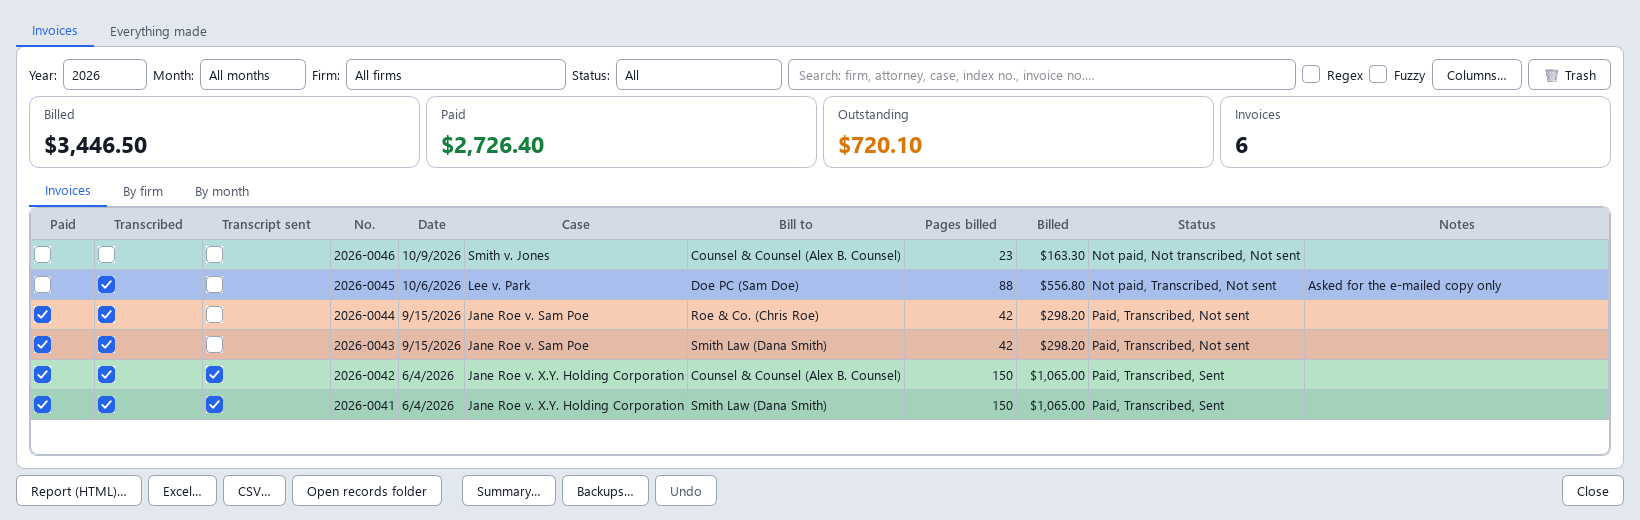
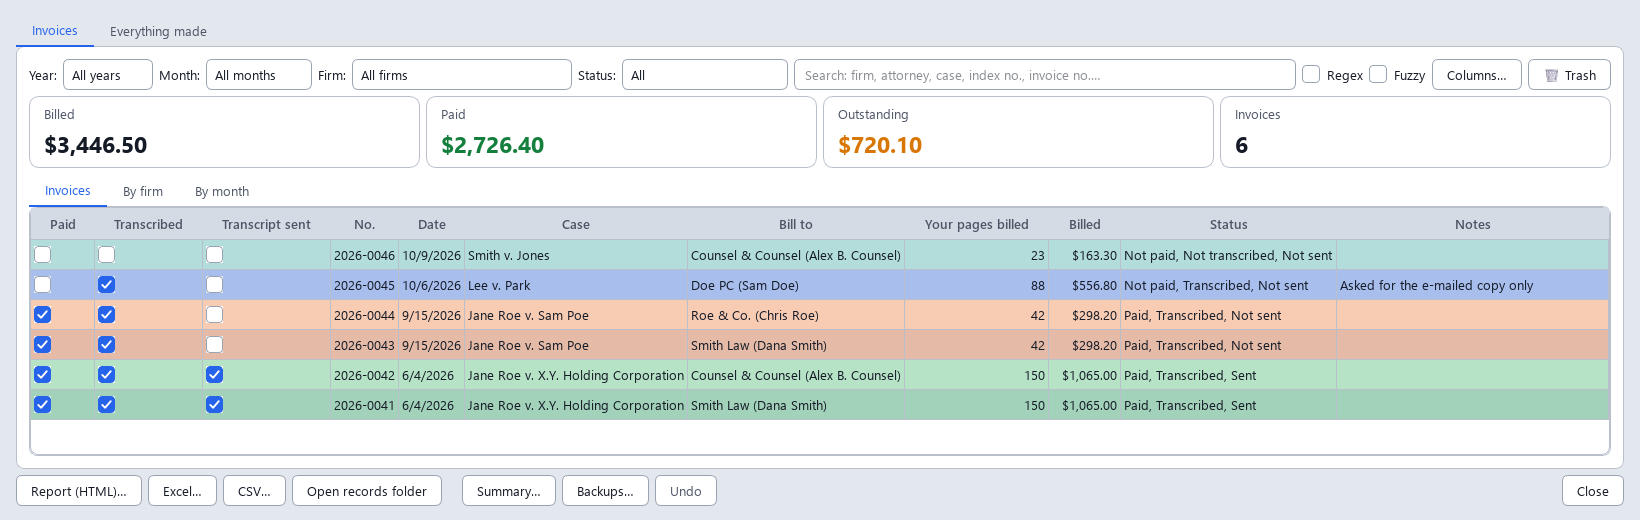
Website for 2.16: every page count says whose pages, the new count columns and filters, pictures with the new headings

diff --git a/docs/index.html b/docs/index.html
@@ -90,9 +90,9 @@
   <div class="wrap two">
     <div>
       <h2>A hundred orders? Drop the whole folder.</h2>
-      <p>Batch mode reads any number of documents and sorts them into one job per case and date. A transcript and its invoice make one form, not two. Two days of the same case make two jobs, but <b>Generate all</b> gives each firm <b>one invoice</b> and one minute agreement for all the days it ordered, and the trial one MOFR (Settings &rarr; Options switches back to forms for each day). Tick the jobs you want and press <b>Generate all</b>: the preview shows every file and the math first, and nothing is saved until you say so. The ticks decide what counts: every card on the right shows all the ticked days, whichever one is shown, so untick a day to see what difference it makes (it greys out but stays in the list). Days already made keep their tick and get a ✓, and the button says what is left: <i>Generate the 1 day left</i>. The list on the left shows each job's case, date and day of the week, oldest first (click a heading to sort by it), the transcript's own pages (no word index) and the pages you wrote (<b>Yours</b>); a job read from several documents lists them under it, and a right-click on one shows its text or moves it to a job of its own. A ⚠ next to a job means something to check; hover over it to see what. <b>New job</b> clears the list without asking, and <b>Undo</b> brings it all back for a few seconds.</p>
+      <p>Batch mode reads any number of documents and sorts them into one job per case and date. A transcript and its invoice make one form, not two. Two days of the same case make two jobs, but <b>Generate all</b> gives each firm <b>one invoice</b> and one minute agreement for all the days it ordered, and the trial one MOFR (Settings &rarr; Options switches back to forms for each day). Tick the jobs you want and press <b>Generate all</b>: the preview shows every file and the math first, and nothing is saved until you say so. The ticks decide what counts: every card on the right shows all the ticked days, whichever one is shown, so untick a day to see what difference it makes (it greys out but stays in the list). Days already made keep their tick and get a ✓, and the button says what is left: <i>Generate the 1 day left</i>. The list on the left shows each job's case, date and day of the week, oldest first (click a heading to sort by it), the <b>Total pages</b> (every reporter's, no word index) and <b>Your pages</b> (those you wrote); a job read from several documents lists them under it, and a right-click on one shows its text or moves it to a job of its own. A ⚠ next to a job means something to check; hover over it to see what. <b>New job</b> clears the list without asking, and <b>Undo</b> brings it all back for a few seconds.</p>
     </div>
-    <img class="shot" src="batch.png" alt="Batch mode: five jobs in the list on the left, oldest first, with their day of the week, each transcript's pages and the pages you wrote (30 and 18 for a trial day two reporters wrote), the Who ordered card: the trial's three firms each with a square and a stripe of its colour, two of them ticked once for the whole trial (3 days) at Expedite, with the pages each is billed, and the Outputs row: how many files each output makes for this day and for all the days, Generate this job and Generate all 5 jobs">
+    <img class="shot" src="batch.png" alt="Batch mode: five jobs in the list on the left, oldest first, with their day of the week, the Total pages and Your pages (30 and 18 for a trial day two reporters wrote), the Who ordered card: the trial's three firms each with a square and a stripe of its colour, two of them ticked once for the whole trial (3 days) at Expedite, with Your pages billed to each (52 of 74 total), and the Outputs row: how many files each output makes for this day and for all the days, Generate this job and Generate all 5 jobs">
   </div>
 </section>
 
@@ -111,7 +111,7 @@
     <img class="shot" src="invoice.png" alt="One invoice for two days of a case, listing the Regular and Expedite amounts">
     <div>
       <h2>Invoices from your transcripts</h2>
-      <p>Drop a transcript PDF and tick <b>Invoice</b>. The page count leaves out the word index printed after the transcript, and the line under it says so: "Transcript pages 378&ndash;460 &middot; excludes the 13 word-index pages after them". It is counted four ways (up to the index, by the line numbers, by the printed page numbers, and the index found from the end); if they disagree, or the index would be more than a quarter of the PDF, the field turns amber and tells you why. The page count and your rate sheet price the original, each party's copy and e-mailed copy, and for long transcripts an index for each party, plus one for the judge that the parties split. Whether there is an index is decided on the whole transcript, every reporter's pages (50 pages or more to start with): your 45 pages of an 83-page transcript get one, charged on your 45. Typed fewer pages in <b>Est. number of pages</b> than the transcript has, and that would change it (40 of 83, say)? <b>Generate</b> asks you instead of deciding, and remembers your answer for that day; <b>Peripherals…</b> shows it and lets you change it. The speeds you tick under <b>Speeds offered</b> (Regular and Expedited to start with) are the ones the invoice offers, each with its turnaround and amount, and with how to pay you. The agreement form names one of them, at one rate per page: Expedited when you offer it, otherwise the slowest. Settings &rarr; Invoice changes that rule, and the <b>Speed</b> dropdown in <b>Who ordered</b> changes it for the job, every day of a trial. No transcript, just a caption page? Type the pages in <b>Est. number of pages</b> and the invoice bills them. Want the page count, the pages of each day and the charges spelled out for this job? Tick <b>Show granular detail</b>, and choose what it shows. <b>Peripherals…</b> drops the e-mailed copy, or says yes or no to the index, for this job only, and the <b>Invoice</b> card says why there is an index or not: "83 total pages, 50 or more". The notes on the invoice are yours to write, too: place them where you like and have them show only when they apply ("delivered once every party has paid" only when several parties ordered). Four firms sharing the pages can come to part of a cent a page ($6.6125): keep every fraction and round once at the end, as before, or set <b>Rounding</b> to <i>The price a page, to the cent</i> to bill $6.61 &times; 1,000 pages = $6,610.00, the way a firm checks it with a calculator. The prices in Who ordered which pages&hellip; are rounded the same way.</p>
+      <p>Drop a transcript PDF and tick <b>Invoice</b>. The page count leaves out the word index printed after the transcript, and the line under it says so: "Transcript pages 378&ndash;460 &middot; excludes the 13 word-index pages after them". It is counted four ways (up to the index, by the line numbers, by the printed page numbers, and the index found from the end); if they disagree, or the index would be more than a quarter of the PDF, the field turns amber and tells you why. The page count and your rate sheet price the original, each party's copy and e-mailed copy, and for long transcripts an index for each party, plus one for the judge that the parties split. Whether there is an index is decided on the whole transcript, every reporter's pages (50 total pages or more to start with): your 45 pages of 83 total pages get one, charged on your 45. Typed fewer pages in <b>Est. number of pages</b> than the transcript has, and that would change it (40 of 83, say)? <b>Generate</b> asks you instead of deciding, and remembers your answer for that day; <b>Peripherals…</b> shows it and lets you change it. The speeds you tick under <b>Speeds offered</b> (Regular and Expedited to start with) are the ones the invoice offers, each with its turnaround and amount, and with how to pay you. The agreement form names one of them, at one rate per page: Expedited when you offer it, otherwise the slowest. Settings &rarr; Invoice changes that rule, and the <b>Speed</b> dropdown in <b>Who ordered</b> changes it for the job, every day of a trial. No transcript, just a caption page? Type the pages in <b>Est. number of pages</b> and the invoice bills them. Want your page count, your pages for each day and the charges spelled out for this job? Tick <b>Show granular detail</b>, and choose what it shows. <b>Peripherals…</b> drops the e-mailed copy, or says yes or no to the index, for this job only, and the <b>Invoice</b> card says why there is an index or not: "83 total pages, 50 or more". The notes on the invoice are yours to write, too: place them where you like and have them show only when they apply ("delivered once every party has paid" only when several parties ordered). Four firms sharing the pages can come to part of a cent a page ($6.6125): keep every fraction and round once at the end, as before, or set <b>Rounding</b> to <i>The price a page, to the cent</i> to bill $6.61 &times; 1,000 pages = $6,610.00, the way a firm checks it with a calculator. The prices in Who ordered which pages&hellip; are rounded the same way.</p>
       <p>Shared the trial with another reporter? The invoice bills only <b>your</b> pages, the ones with your initials at the foot: 65 of a 150-page transcript, say. <b>Whose pages…</b> lets you tick <b>My pages</b>, another reporter's pages, or <b>The whole transcript</b>, and the app asks when it can't tell. Each other reporter you tick gets invoices for their own pages, in their name, with their address and payment details (Settings &rarr; Run sheet &rarr; Invoices for, or <b>Details…</b>), numbered apart from yours (DS-2026-0001), with file names that say whose they are. Sample shown uses made-up names.</p>
     </div>
   </div>
@@ -121,9 +121,9 @@
   <div class="wrap two">
     <div>
       <h2>Who ordered which pages: the whole case on one table</h2>
-      <p>One firm ordered the whole trial, another part of day 1, a third part of that and a stretch of day 2? <b>Who ordered which pages…</b> (in Who ordered, or <i>Some days or pages…</i> in a firm's row) lists every day of the case on that invoice in one table. The <b>?</b> beside the button shows the steps. Each row is a run of pages, typed in the transcript's own page numbers (141-170), and the rows around it make room. Tick the firms that ordered each run. <b>Split run</b> cuts a run in two, and <b>Remove run</b> (or the Delete key, or a right-click) gives its pages to the run next to it; <b>Remove this day's excerpts</b> and <b>Remove all excerpts</b> go back to whole days. Each run shows its date and weekday, and each set of firms ordering together has its own colour. As you type, it shows what each run costs each firm at every speed you offer (<b>Prices for:</b> hides a speed), what each group of firms ordering together pays, and each firm's invoice. Pages ordered together split the original and the judge's index, and every firm pays for its own copy, e-mailed copy and index. A run nobody ticks is billed to nobody. The window stays open beside the app and follows what you change there. Sample shown uses made-up names.</p>
+      <p>One firm ordered the whole trial, another part of day 1, a third part of that and a stretch of day 2? <b>Who ordered which pages…</b> (in Who ordered, or <i>Some days or pages…</i> in a firm's row) lists every day of the case on that invoice in one table. The <b>?</b> beside the button shows the steps. Each row is a run of pages, typed in the transcript's own page numbers (141-170), and the rows around it make room. Tick the firms that ordered each run. <b>Split run</b> cuts a run in two, and <b>Remove run</b> (or the Delete key, or a right-click) gives its pages to the run next to it; <b>Remove this day's excerpts</b> and <b>Remove all excerpts</b> go back to whole days. Each run shows its date and weekday, and each set of firms ordering together has its own colour. As you type, it shows what each run costs each firm at every speed you offer (<b>Prices for:</b> hides a speed), what each group of firms ordering together pays, and each firm's invoice. Every count says whose pages it is: <i>43 of your pages billed (93 total pages)</i>. Columns show your pages billed and transcribed and the total pages, and <b>Only your pages</b> shows just the runs with pages of yours. A job of several days shows the page numbers printed on each transcript. Pages ordered together split the original and the judge's index, and every firm pays for its own copy, e-mailed copy and index. A run nobody ticks is billed to nobody. The window stays open beside the app and follows what you change there. Sample shown uses made-up names.</p>
     </div>
-    <img class="shot" src="excerpts.png" alt="The Who ordered which pages table: the days of a trial with their dates and weekdays, a row per run of pages coloured by the firms ordering it, a box per firm with its speed and price, what each firm pays, and the Remove buttons">
+    <img class="shot" src="excerpts.png" alt="The Who ordered which pages table: the days of a trial with their dates and weekdays, a row per run of pages with its page numbers, coloured by the firms ordering it, a box per firm with its speed and price, your pages and the total pages of each run, what each set of firms pays (40 of your pages billed, 62 total pages), and the Remove buttons">
   </div>
 </section>
 
@@ -134,7 +134,7 @@
       <p>Who ordered, what and at what speed, in one card: <b>Who ordered</b> lists every firm of the trial, whichever day you're looking at. Drop the four transcripts of a trial, tick the two firms that ordered it, and that's it: each orders the whole trial, at the speed its row names (<i>Expedite</i>, say), and Generate all bills it that way, without a question. A day you drop in later is theirs too. A firm that ordered only one day, or a few pages? Its <b>What</b> box makes it <i>Only 6/4/2026</i>, or opens Who ordered which pages… for the rest, and its tick goes half full. Its <b>Speed</b> box names the speed it's billed, and choosing another sets it for every day. A firm ordering alone shows <i>They choose: Regular or Expedite</i>: its invoice lists each speed. The line under the table says it in words ("Counsel &amp; Counsel and Smith Law: the whole trial (4 days), at Expedite."), and what Generate all will bill: a ✓ for a day invoiced already, and in amber when an invoice won't be made yet (a day nobody ordered, an excerpt to check, whose pages to bill). Each firm has a square and a stripe of its colour, the same on every day. Rather tick each day on its own? Settings &rarr; Options. Opened again from Records, a trial comes back with who ordered each day. <b>Generate all</b> asks before it bills a case with a day not decided: go back and decide, or go on without it.</p>
       <p><b>Different speeds on the same pages?</b> Firms that share pages each commit to a speed: each row names the speed it's billed, the agreement form's unless you choose another in the card's <b>Speed</b> column (or one run's own in Who ordered which pages…), and Generate bills it without a question (Settings &rarr; Invoice can have it ask instead). The one original is billed at the fastest speed ordered; each slower firm pays its share as if every firm had ordered its speed, the fastest pays the rest, and each pays its own copies at its own speed. One firm at Daily and one at Immediate, 10 pages of Sample Rates: the original is $7.60 a page at Immediate, the Daily firm pays $6.50 &divide; 2 = $3.25 of it and the Immediate firm $4.35, and together they pay exactly the bill. A firm with two speeds gets one minute agreement, both speeds ticked. For now, at most two speeds may share the same pages. Sample shown uses made-up names.</p>
     </div>
-    <img class="shot" src="orders.png" alt="The Who ordered card for a trial of three days: the Speed of the forms and the speeds offered at the top, a row per firm with a square and a stripe of its colour (Dana Smith orange, Alex B. Counsel blue, Kim Park teal), Dana Smith and Alex B. Counsel ticked once, each ordering the whole trial (3 days) at Expedite and billed 52 of 74 pages, Kim Park unticked, the details of the row selected under the table, and the line saying it in words">
+    <img class="shot" src="orders.png" alt="The Who ordered card for a trial of three days: the Speed of the forms and the speeds offered at the top, a row per firm with a square and a stripe of its colour (Dana Smith orange, Alex B. Counsel blue, Kim Park teal), Dana Smith and Alex B. Counsel ticked once, each ordering the whole trial (3 days) at Expedite, with 52 of 74 total under Your pages, Kim Park unticked, the details of the row selected under the table, and the line saying it in words">
   </div>
 </section>
 
@@ -162,7 +162,7 @@
   <div class="wrap two">
     <div>
       <h2>Shared trial? The run sheet keeps count.</h2>
-      <p>When reporters take turns, each one puts their initials on the pages they write. <b>Run sheet</b> ticks itself when two or more reporters wrote the case's transcripts (and unticks when one did; click it to decide yourself), and the app reads those initials page by page and adds a row per take to the trial's run sheet in Excel: date, reporter, pages written, start and end page, and the first and last header printed at the top of the take's pages, as printed (or nothing, if you'd rather type the witness yourself: Settings &rarr; Run sheet). The run sheet is kept in the case's <i>Trial Runs</i> folder, beside its forms and invoices. The app finds it there, or wherever your records say it is, by index number or case name (one trial can have several index numbers) and asks before adding to it. All the days of a trial go on it in one go: if it's open in Excel, you're told to close it before anything is made, so it never ends up missing a day. Filter by reporter to see their pages. To look back on a trial, the <b>By Reporter</b> sheet has each reporter's takes, pages, share of the pages and the days they worked; <b>Witnesses</b> lists every running head the transcripts printed, as printed, with its days and reporters; and <b>Who Ordered</b> lists, from your records, each invoice of the case (paid or not) and each firm with an agreement but no invoice yet. In the app, the <b>Who transcribed what</b> card lists every take of the days ticked, with each reporter's pages; <b>Save a copy</b> makes an Excel or CSV file of it. A page's initials misread, so a take comes out wrong? Double-click it, type the page it really ends on, and say yes: your pages, the invoice and the run sheet follow. Sample shown uses made-up names.</p>
+      <p>When reporters take turns, each one puts their initials on the pages they write. <b>Run sheet</b> ticks itself when two or more reporters wrote the case's transcripts (and unticks when one did; click it to decide yourself), and the app reads those initials page by page and adds a row per take to the trial's run sheet in Excel: date, reporter, pages written, start and end page, and the first and last header printed at the top of the take's pages, as printed (or nothing, if you'd rather type the witness yourself: Settings &rarr; Run sheet). The run sheet is kept in the case's <i>Trial Runs</i> folder, beside its forms and invoices. The app finds it there, or wherever your records say it is, by index number or case name (one trial can have several index numbers) and asks before adding to it. All the days of a trial go on it in one go: if it's open in Excel, you're told to close it before anything is made, so it never ends up missing a day. Filter by reporter to see their pages. To look back on a trial, the <b>By Reporter</b> sheet has each reporter's takes, pages, share of the pages and the days they worked; <b>Witnesses</b> lists every running head the transcripts printed, as printed, with its days and reporters; and <b>Who Ordered</b> lists, from your records, each invoice of the case (paid or not) and each firm with an agreement but no invoice yet. In the app, the <b>Who transcribed what</b> card lists every take of the days ticked, with each reporter's pages, your takes highlighted; <b>Only yours</b> or a box for each reporter narrows it down, and <b>Save a copy</b> makes an Excel or CSV file of it. A page's initials misread, so a take comes out wrong? Double-click it, type the page it really ends on, and say yes: your pages, the invoice and the run sheet follow. Sample shown uses made-up names.</p>
     </div>
     <img class="shot" src="runsheet.png" alt="A run sheet: one row per take, with the reporter, pages written, page numbers and the headers printed at the top of the take's first and last page">
   </div>
